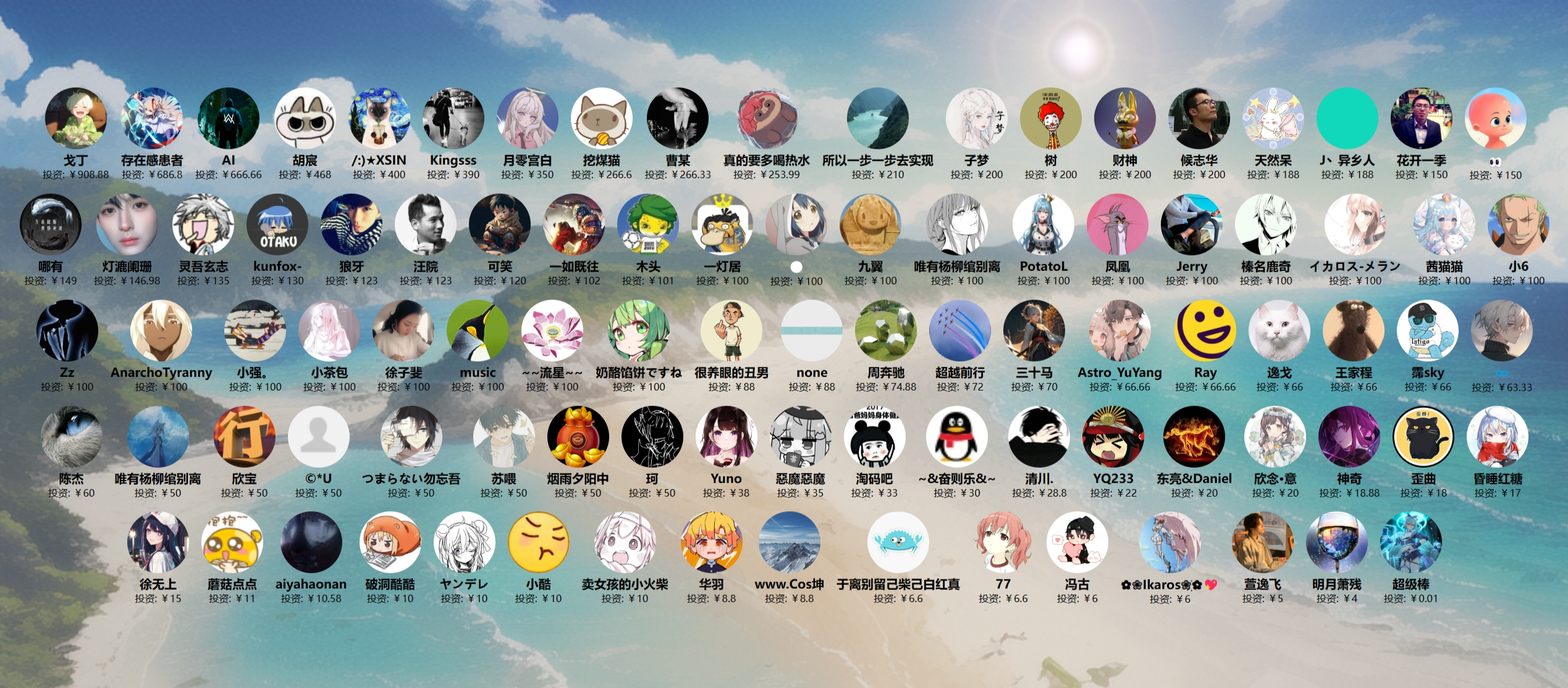
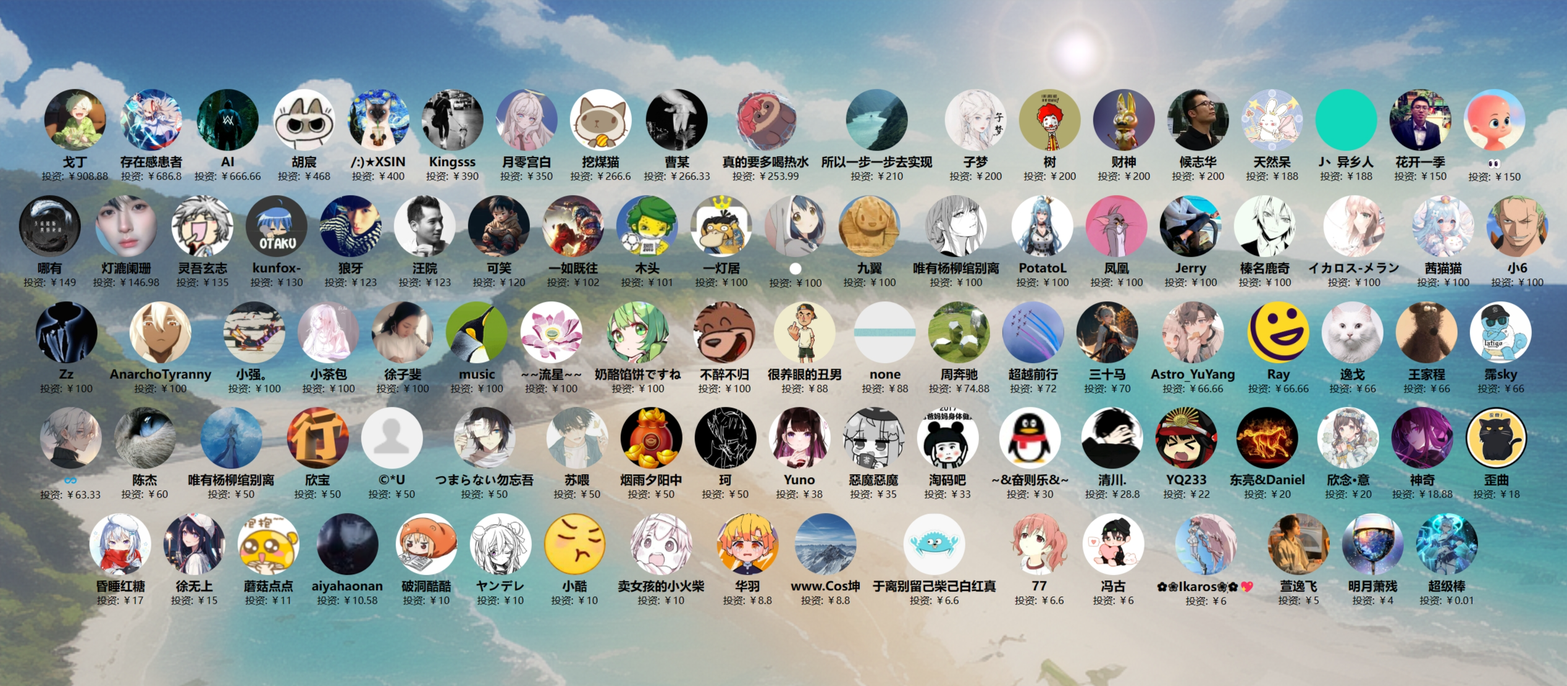
更新投资人

diff --git a/docs/投资人/index.html b/docs/投资人/index.html
@@ -287,6 +287,11 @@
             amount: "￥100"
         },
         {
+            name: "不醉不归",
+            avatar: "https://images.cnblogs.com/cnblogs_com/ikaros-521/2328032/o_240320155329_QQ%E5%9B%BE%E7%89%8720240320235305.jpg",
+            amount: "￥100"
+        },
+        {
             name: "很养眼的丑男",
             avatar: "https://images.cnblogs.com/cnblogs_com/ikaros-521/2328032/o_230722162732_QQ%E5%9B%BE%E7%89%8720230723000544.jpg",
             amount: "￥88"
